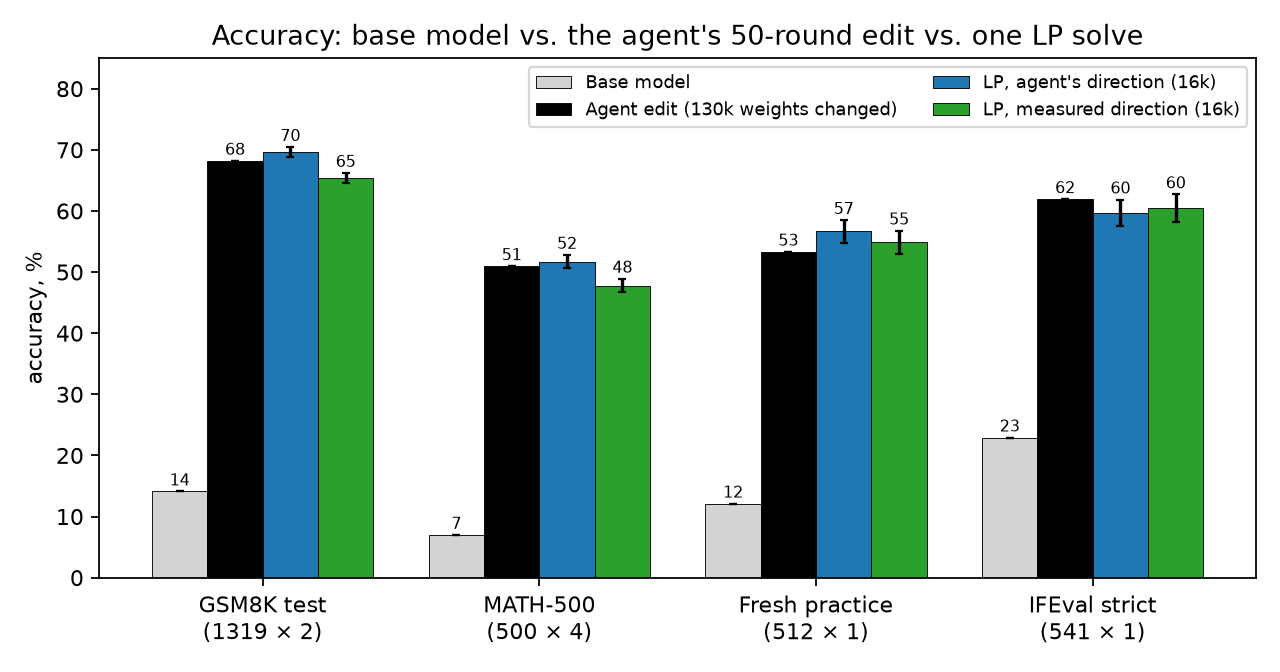
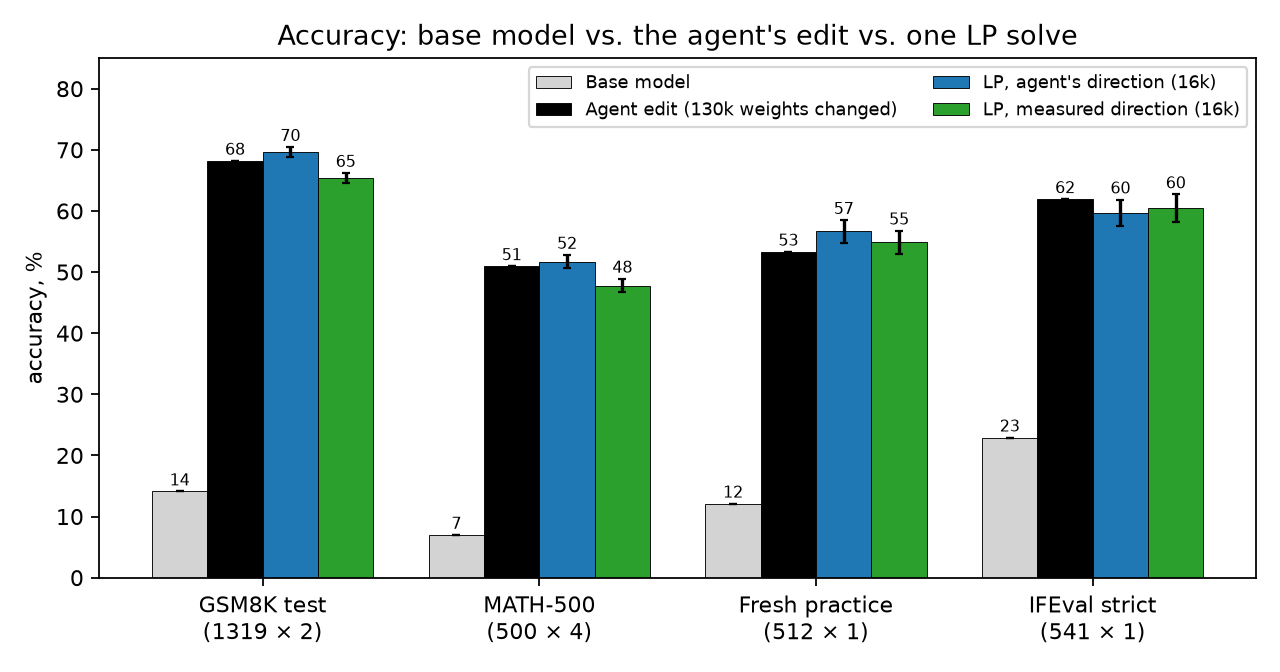
Describe the agent's budget accurately (50 forward passes, 158 turns, ~16 h active); explain 130,188 vs the post's 131,072 weights

Changed region(s): [[0.1562, 0.0312, 0.9062, 0.0938]]

diff --git a/scripts/make_figures.py b/scripts/make_figures.py
@@ -37,7 +37,7 @@ for label, (names, col, mk) in series.items():
     x = [weights(n) for n in names]
     y = [dev_acc(n) for n in names]
     ax.plot(x, y, marker=mk, color=col, label=label)
-for n, txt, col in [("astra_p50c", "Agent edit (50 rounds of search)", "k"), ("recipe_nosearch", "Agent's recipe, no search", "gray")]:
+for n, txt, col in [("astra_p50c", "Agent edit (50-pass search)", "k"), ("recipe_nosearch", "Agent's recipe, no search", "gray")]:
     ax.scatter([weights(n)], [dev_acc(n)], marker="*", s=180, color=col, zorder=5, label=txt)
 ax.axhline(dev_acc("base"), color="gray", ls=":", lw=1)
 ax.text(1.2e4, dev_acc("base") + 1, "base model", color="gray", fontsize=8)
@@ -81,7 +81,7 @@ for j, (b, pat) in enumerate(BENCH.items()):
 ax.set_xticks(range(len(BENCH)), list(BENCH))
 ax.set_ylabel("accuracy, %")
 ax.set_ylim(0, 85)
-ax.set_title("Accuracy: base model vs. the agent's 50-round edit vs. one LP solve")
+ax.set_title("Accuracy: base model vs. the agent's edit vs. one LP solve")
 ax.legend(fontsize=8, loc="upper right", ncol=2)
 fig.tight_layout()
 fig.savefig(OUT / "benchmarks.png", dpi=160)

diff --git a/docs/WRITEUP.md b/docs/WRITEUP.md
@@ -3,9 +3,11 @@
 ## Background
 
 In [*Sparks of Weight-Space Programming*](https://rikiyat.github.io/blog/weight-space-programming/) (Takehi et al., MIT CSAIL;
-[logs](https://github.com/RikiyaT/lm_understand-logs/tree/main/exp8_math)), an LLM agent (OpenAI's "Astra") spent 50
-rounds, about 20 hours, hand-editing Qwen3.5-0.8B's weights to stop it from looping while it thinks. Its final edit
-took MATH-500 from 7.9% to 48.1% in the authors' logs. That edit turns out to be **rank-1**: it pushes the hidden
+[logs](https://github.com/RikiyaT/lm_understand-logs/tree/main/exp8_math)), an LLM agent (OpenAI's "Astra") hand-edited
+Qwen3.5-0.8B's weights to stop it from looping while it thinks. It could inspect the weights freely but had a budget
+of 50 forward passes, each a batched run of the model (about 64 sequences on average) on practice problems or texts of
+its choosing, with no gradients. The run took 158 turns and about 16 hours of wall-clock time (20.3 hours in the
+logs, including a 4.7-hour outage). Its final edit took MATH-500 from 7.9% to 48.1% in the authors' logs. That edit turns out to be **rank-1**: it pushes the hidden
 state along a single direction. Once you know that direction, choosing *which neurons and how much* is a linear
 program. This project tests whether one LP solve can stand in for the agent's search.
 
@@ -109,6 +111,9 @@ presence penalty 1.5, up to 32,768 new tokens (a generation that hits the limit 
 because it is stuck in a loop); the last `\boxed{}` answer is graded with math-verify. IFEval uses
 lm-eval's port of the official checkers, scored on the text after the last `</think>` (empty if the generation was
 truncated while thinking). Differences are paired per problem against the agent edit.
+
+Weight counts are weights whose stored bf16 value actually changed. The post's 131,072 for the agent edit counts every
+weight in its 128 edited columns; 884 of them round back to their original value, so we count 130,188.
 
 ## Caveats
 

diff --git a/README.md b/README.md
@@ -1,8 +1,8 @@
 # weight-space-lp
 
 Qwen3.5-0.8B often gets stuck repeating itself while it thinks. In [*Sparks of Weight-Space Programming*](https://rikiyat.github.io/blog/weight-space-programming/)
-(Takehi et al., MIT CSAIL), an LLM agent fixed this by hand-editing the model's weights over 50 rounds of trial and
-error ([logs](https://github.com/RikiyaT/lm_understand-logs/tree/main/exp8_math)). This repo computes an equivalent edit with a
+(Takehi et al., MIT CSAIL), an LLM agent fixed this by hand-editing the model's weights, testing its ideas with a
+budget of 50 batched runs of the model ([logs](https://github.com/RikiyaT/lm_understand-logs/tree/main/exp8_math)). This repo computes an equivalent edit with a
 single linear-program solve: about a minute on a laptop, changing 8× fewer weights.
 
 The full write-up (method, findings, steering baseline, caveats) is in [docs/WRITEUP.md](docs/WRITEUP.md).

diff --git a/results/dev_sweep/CONFIRMATION.md b/results/dev_sweep/CONFIRMATION.md
@@ -9,7 +9,7 @@ measured-direction edit, is in [benchmarks](../benchmarks/README.md).
 | Edit | Changed weights | GSM8K | MATH | Pooled | Gain vs base (SE) | Rescues / losses | Truncated % | Mean tokens |
 |---|---|---|---|---|---|---|---|---|
 | Base model | 0 | 15.6 | 8.6 | 12.1 | — | — | 89.1 | 29,717 |
-| Agent edit (50 rounds of search) | 130,188 | 64.5 | 42.2 | 53.3 | +41.2 (2.2) | 215 / 4 | 21.3 | 17,004 |
+| Agent edit (50-pass search) | 130,188 | 64.5 | 42.2 | 53.3 | +41.2 (2.2) | 215 / 4 | 21.3 | 17,004 |
 | **LP, agent's direction** (8 neurons/layer) | **16,291** | **66.4** | **46.9** | **56.6** | **+44.5 (2.3)** | 231 / 3 | 21.7 | 15,195 |
 
 Head-to-head, paired, n = 512: **LP edit − agent edit = +3.3 points (SE 1.9)**; 54 problems only the LP edit solves,

diff --git a/results/README.md b/results/README.md
@@ -5,7 +5,7 @@ Tables use readable names; file and folder names use short IDs:
 | ID | Meaning |
 |---|---|
 | `base` | Base model |
-| `astra_p50c` | Agent edit (the agent's run `p50c`, after 50 rounds) |
+| `astra_p50c` | Agent edit (the agent's run `p50c`, with 50 forward passes) |
 | `shift_k<N>` / `sel_k<N>` | LP with the agent's direction, broad (ε = 1.0) / selective (ε = 0.25), N neurons per layer |
 | `lp_shift` / `lp_sel` | Same, with no neuron limit |
 | `real…` | Same LPs with the measured direction; `_d2` / `_d8` = push 2× / 8× the loop excess (default 4×) |
